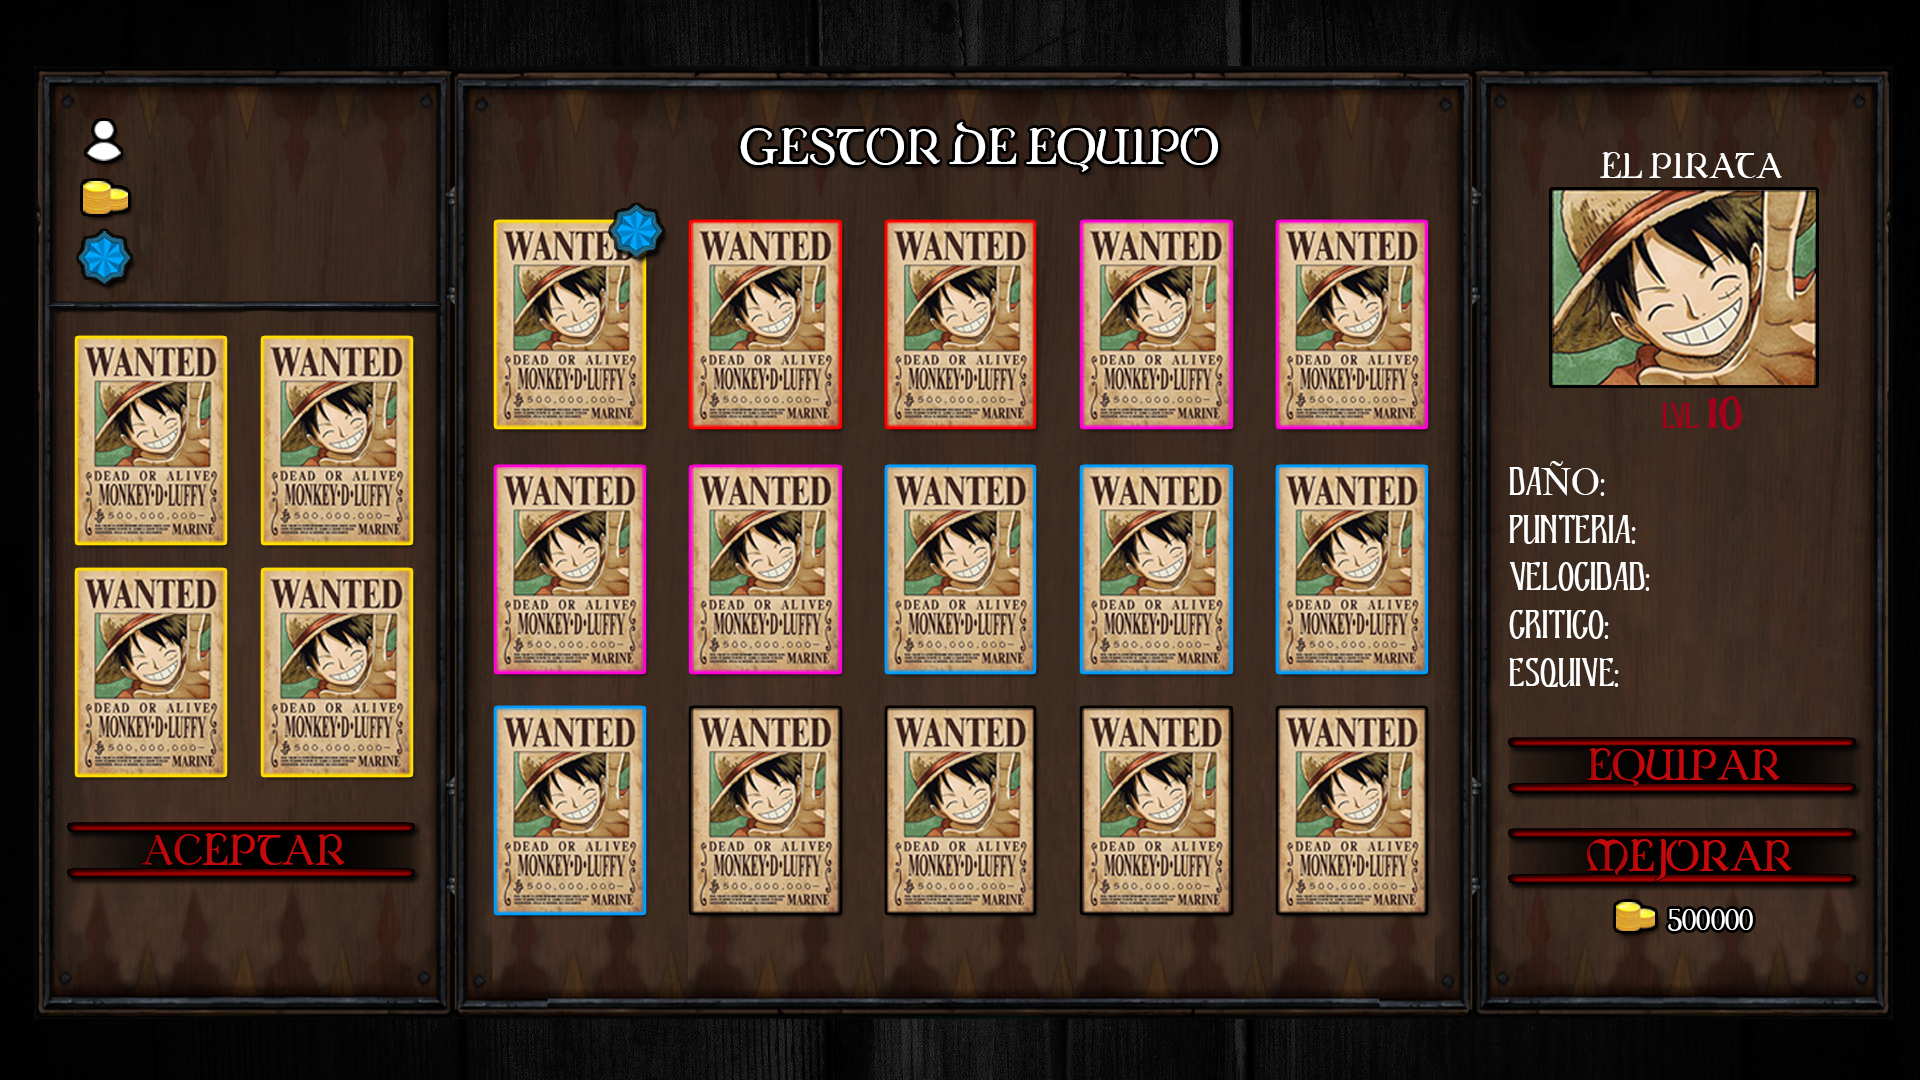
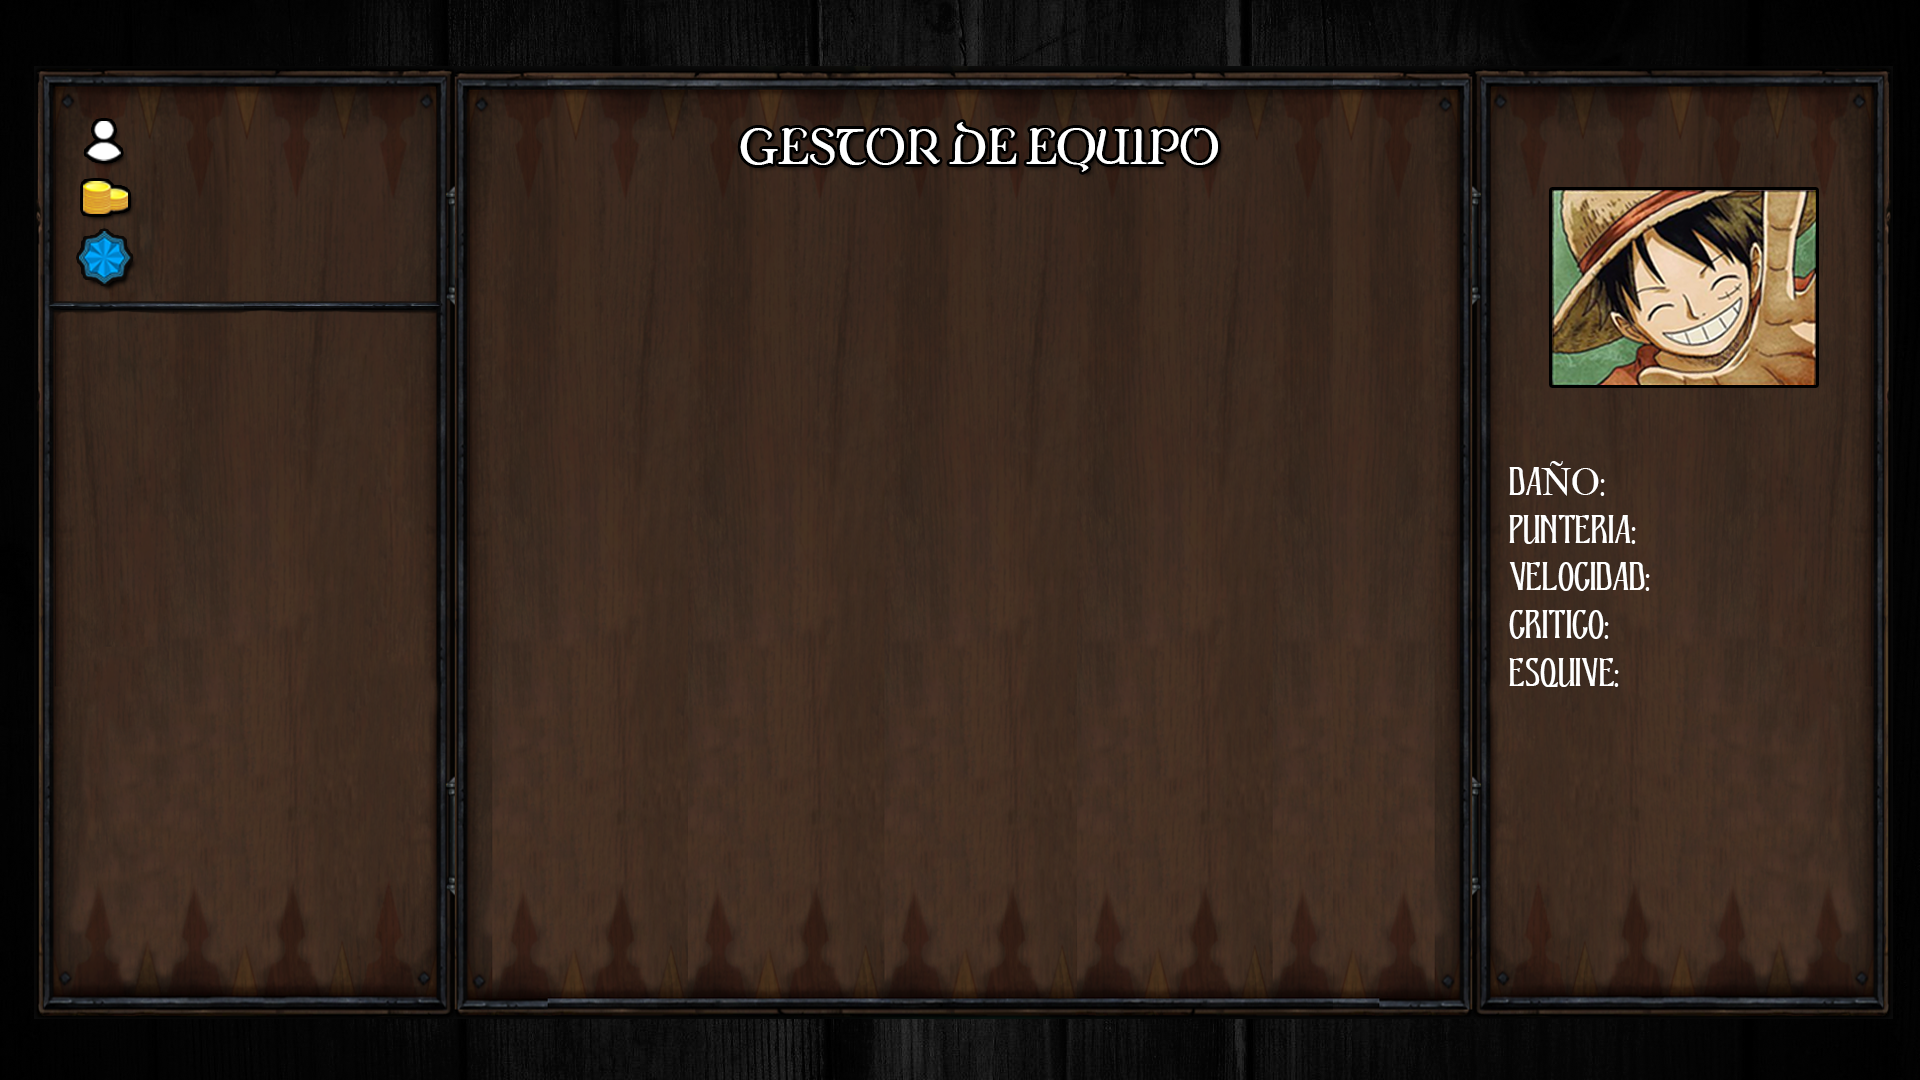
Actualizacion grafica de la pantalla gestor + implementacion del usuario

diff --git a/core/src/es/b04/game/main/SquadMenuScreen.java b/core/src/es/b04/game/main/SquadMenuScreen.java
@@ -11,6 +11,7 @@ import com.badlogic.gdx.graphics.g2d.SpriteBatch;
 import com.badlogic.gdx.scenes.scene2d.InputEvent;
 import com.badlogic.gdx.scenes.scene2d.Stage;
 import com.badlogic.gdx.scenes.scene2d.utils.ActorGestureListener;
+import com.badlogic.gdx.utils.Align;
 import com.badlogic.gdx.utils.viewport.FitViewport;
 import es.b04.game.character.Champion;
 import es.b04.game.utility.AssetEnum;
@@ -23,7 +24,7 @@ import java.util.List;
 
 public class SquadMenuScreen extends ScreenAdapter {
     private Texture tittleBackground;
-    private SpriteBatch Batch;
+    private SpriteBatch batch;
     private final MainGame game;
     private final AssetManager assetManager;
     private Stage stage;
@@ -47,7 +48,7 @@ public class SquadMenuScreen extends ScreenAdapter {
 
         // Basicos
         tittleBackground = new Texture("BackgroundSquad.png");
-        Batch = new SpriteBatch();
+        batch = new SpriteBatch();
         stage = new Stage(new FitViewport(Gdx.graphics.getWidth(), Gdx.graphics.getHeight()));
         fontDung50 = new CustomFont(50,255,255,255,1.0f,0,
                 1.5f, Color.BLACK).getCustomFont();
@@ -69,13 +70,13 @@ public class SquadMenuScreen extends ScreenAdapter {
         super.render(delta);
         Gdx.gl.glClearColor(1, 0, 0, 1);
         Gdx.gl.glClear(GL20.GL_COLOR_BUFFER_BIT);
-        Batch.begin();
-        Batch.draw(tittleBackground, 0, 0);
+        batch.begin();
+        batch.draw(tittleBackground, 0, 0);
         renderChampions();
-        Batch.end();
         stage.act(delta);
+        renderText();
         stage.draw();
-
+        batch.end();
     }
 
     @Override
@@ -275,11 +276,11 @@ public class SquadMenuScreen extends ScreenAdapter {
 
     // Metodos de Renderizacion
     public void renderChampions(){
-        int cont = 0,row= 0, colum = 0;
+        int cont = 0,row = 0, colum = 0;
 
         // Renderizado del Squad
         while (cont < userl.getSquad().size()){
-            Batch.draw(new Texture(userl.getSquad().get(cont).getTexture().get(0)),70 + 185*colum,530 - 233*row);
+            batch.draw(new Texture(userl.getSquad().get(cont).getTexture().get(0)),70 + 185*colum,530 - 233*row);
             switch (cont) {
                 case 0:
                 case 2:
@@ -293,17 +294,25 @@ public class SquadMenuScreen extends ScreenAdapter {
             cont++;
         }
 
-        // Renderizado de las stats texto
-
-        if(inspect < userl.getInventory().size()) {
-            fontDung50.draw(Batch, userl.getInventory().get(inspect).getName(), 1600, 920);
-            fontDung50.draw(Batch, "LVL " + userl.getInventory().get(inspect).getLevel(), 1660, 665);
-            fontDung50.draw(Batch, "" + userl.getInventory().get(inspect).getDmg(), 1670, 605);
-            fontDung50.draw(Batch, "" + userl.getInventory().get(inspect).getAttackSpeed(), 1670, 555);
-            fontDung50.draw(Batch, "" + userl.getInventory().get(inspect).getAccuracy(), 1670, 507);
-            fontDung50.draw(Batch, "" + userl.getInventory().get(inspect).getDodgeProb(), 1670, 460);
-            fontDung50.draw(Batch, "" + userl.getInventory().get(inspect).getCriticProb(), 1670, 410);
-        }
     }
 
+    public void renderText(){
+        final  int rowAling = 1680;
+        // Renderizado del User
+        fontDung50.draw(batch, userl.getName(), 150, 943);
+        fontDung50.draw(batch, Integer.toString(userl.getGold()), 150, 885);
+        fontDung50.draw(batch, Integer.toString(userl.getLevel()), 98, 827);
+        fontDung50.draw(batch, userl.getExpProgress() + "/" + userl.getExpMax() , 150, 827);
+
+        // Renderizado de los stats texto
+        if(inspect < userl.getInventory().size()) {
+            fontDung50.draw(batch, userl.getInventory().get(inspect).getName(), 1680, 920,0, Align.center,false);
+            fontDung50.draw(batch, "LVL " + userl.getInventory().get(inspect).getLevel(), 1630, 665);
+            fontDung50.draw(batch, "" + userl.getInventory().get(inspect).getDmg(), rowAling, 605);
+            fontDung50.draw(batch, "" + userl.getInventory().get(inspect).getAttackSpeed(), rowAling, 555);
+            fontDung50.draw(batch, "" + userl.getInventory().get(inspect).getAccuracy(), rowAling, 507);
+            fontDung50.draw(batch, "" + userl.getInventory().get(inspect).getDodgeProb(), rowAling, 460);
+            fontDung50.draw(batch, "" + userl.getInventory().get(inspect).getCriticProb(), rowAling, 410);
+        }
+    }
 }

diff --git a/core/src/es/b04/game/main/MainGame.java b/core/src/es/b04/game/main/MainGame.java
@@ -42,7 +42,6 @@ public class MainGame extends Game {
 	@Override
 	public void render() {
 		super.render();
-		customMouse.getMousePosition();
 		customMouse.mouseAct();
 		customMouse.getMousePosition();
 
@@ -107,9 +106,7 @@ public class MainGame extends Game {
 		invent.add(c2);
 		invent.add(c3);
 		invent.add(c4);
-		for (int i = 0; i < 5; i++) {
-			invent.add((new Champion(c5)));
-		}
+		invent.add(c5);
 
 		user.setInventory(invent);
 
